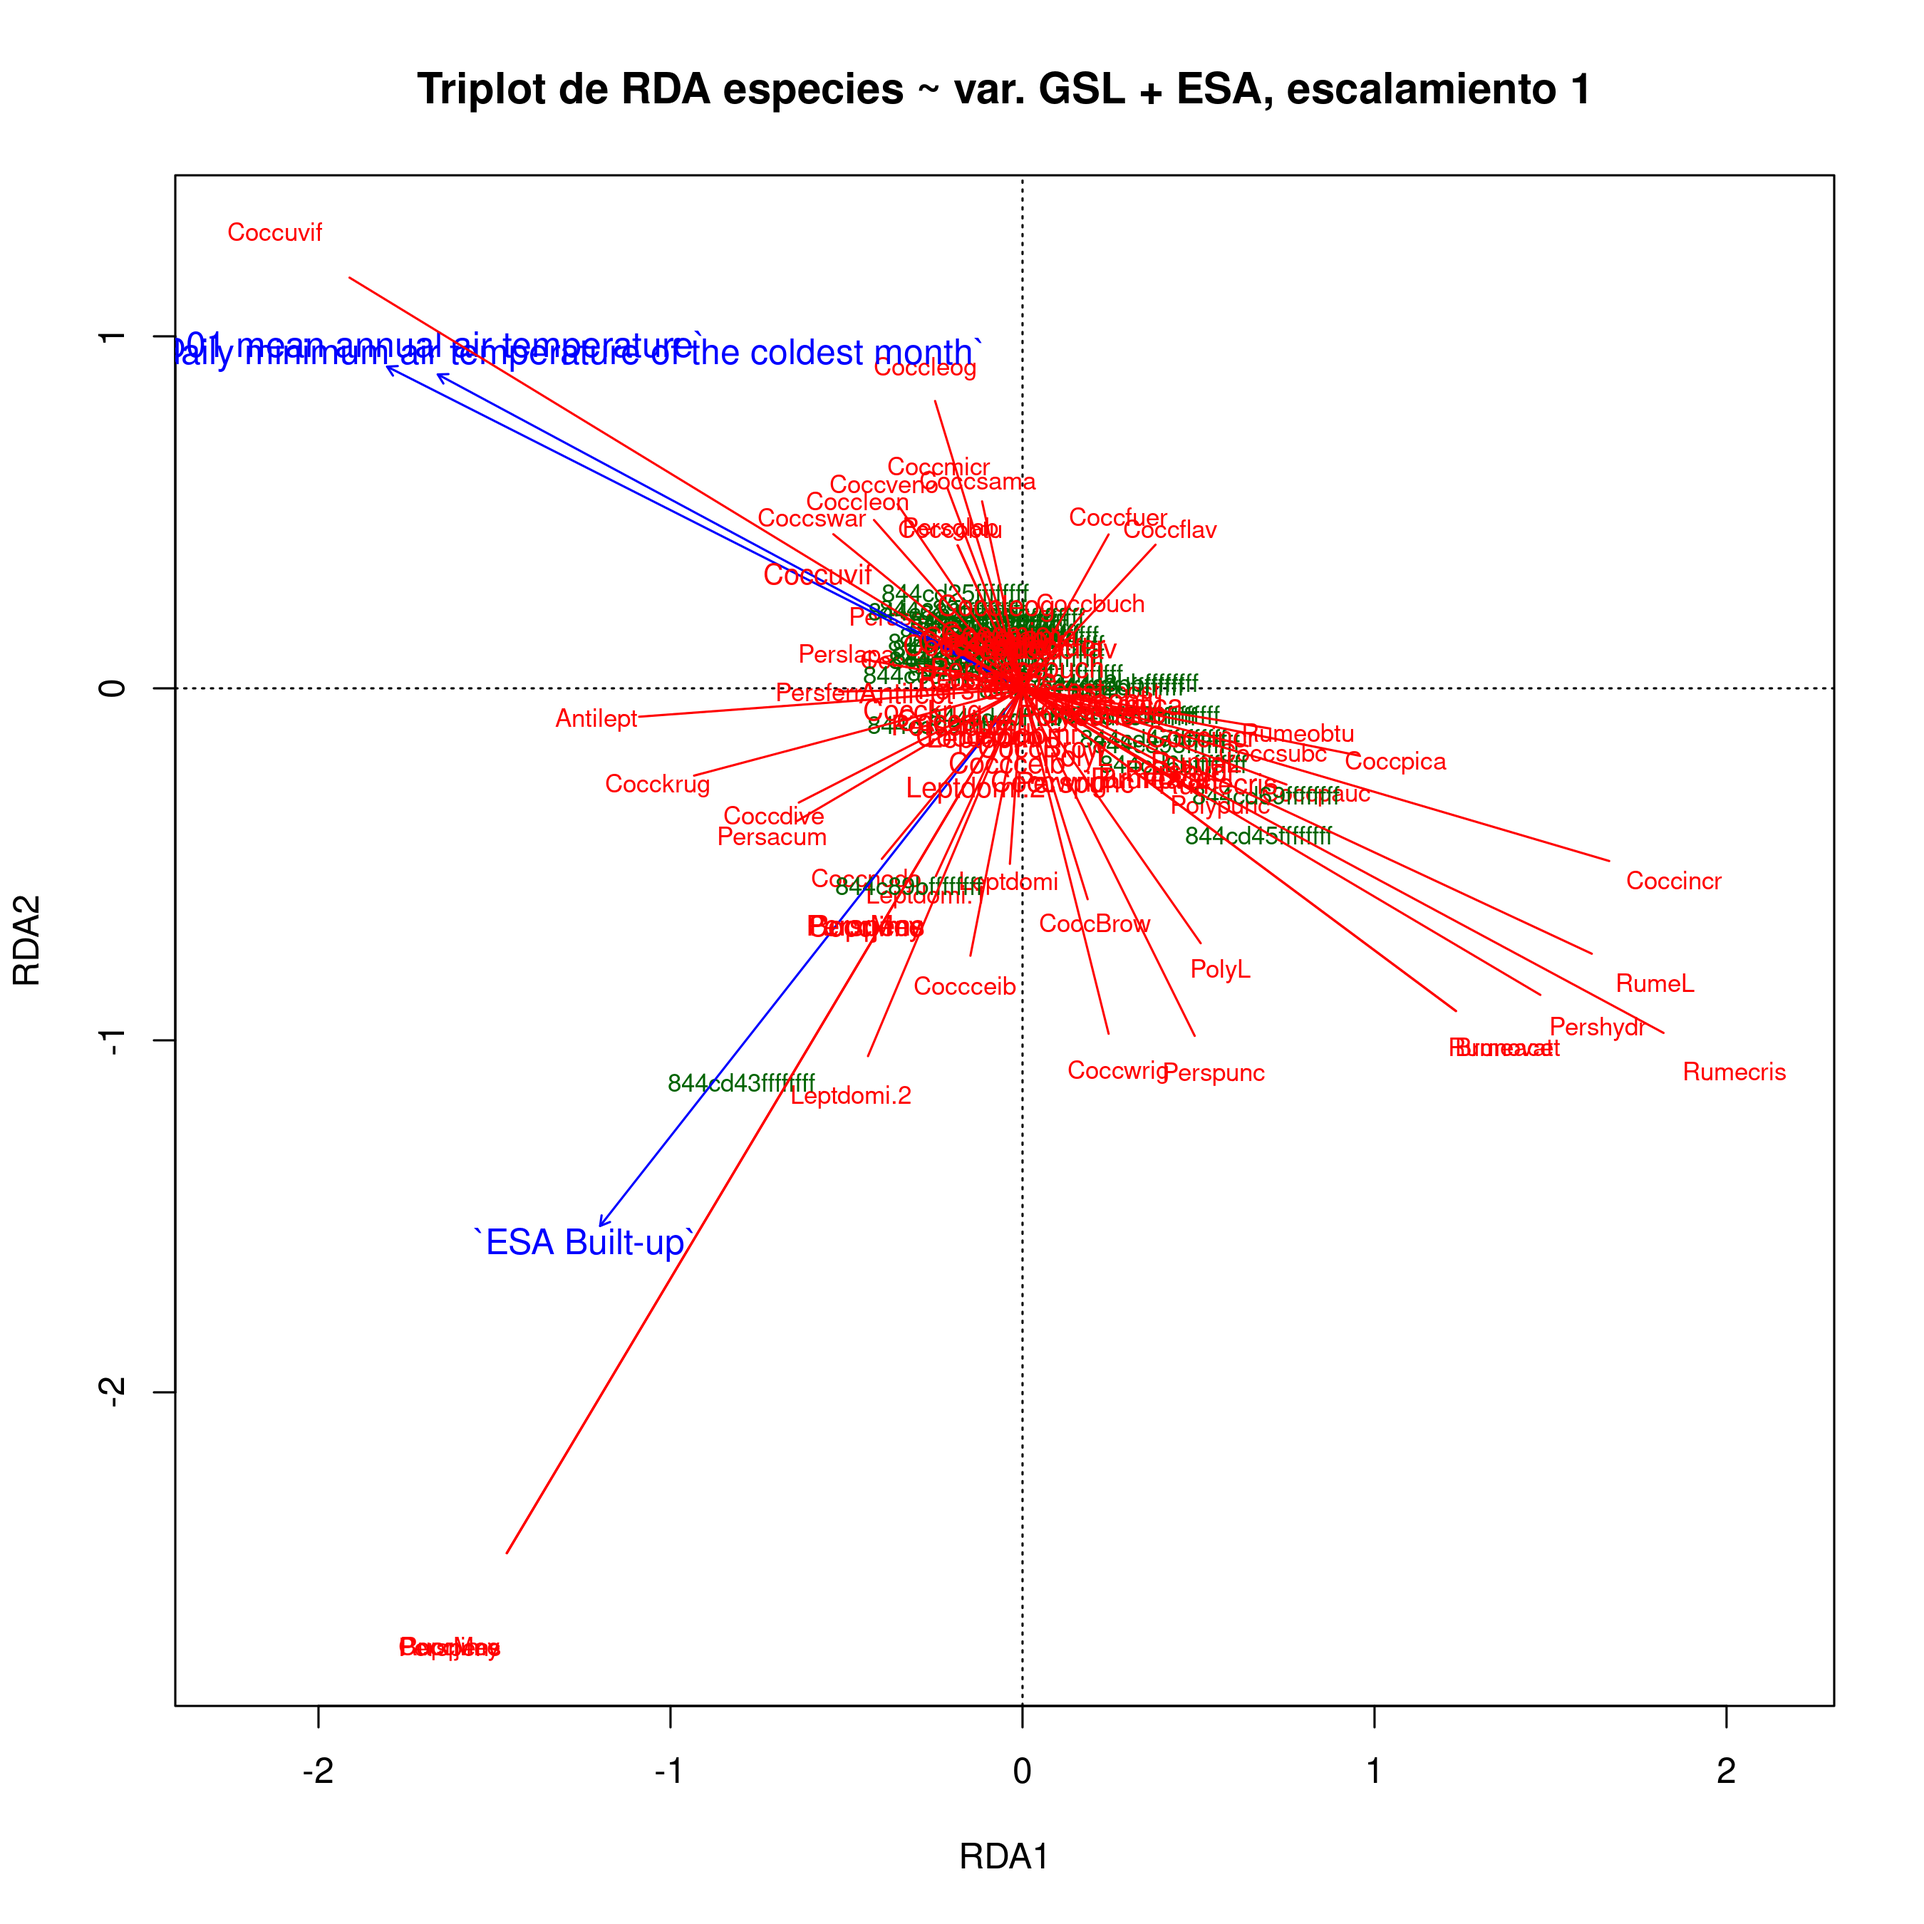
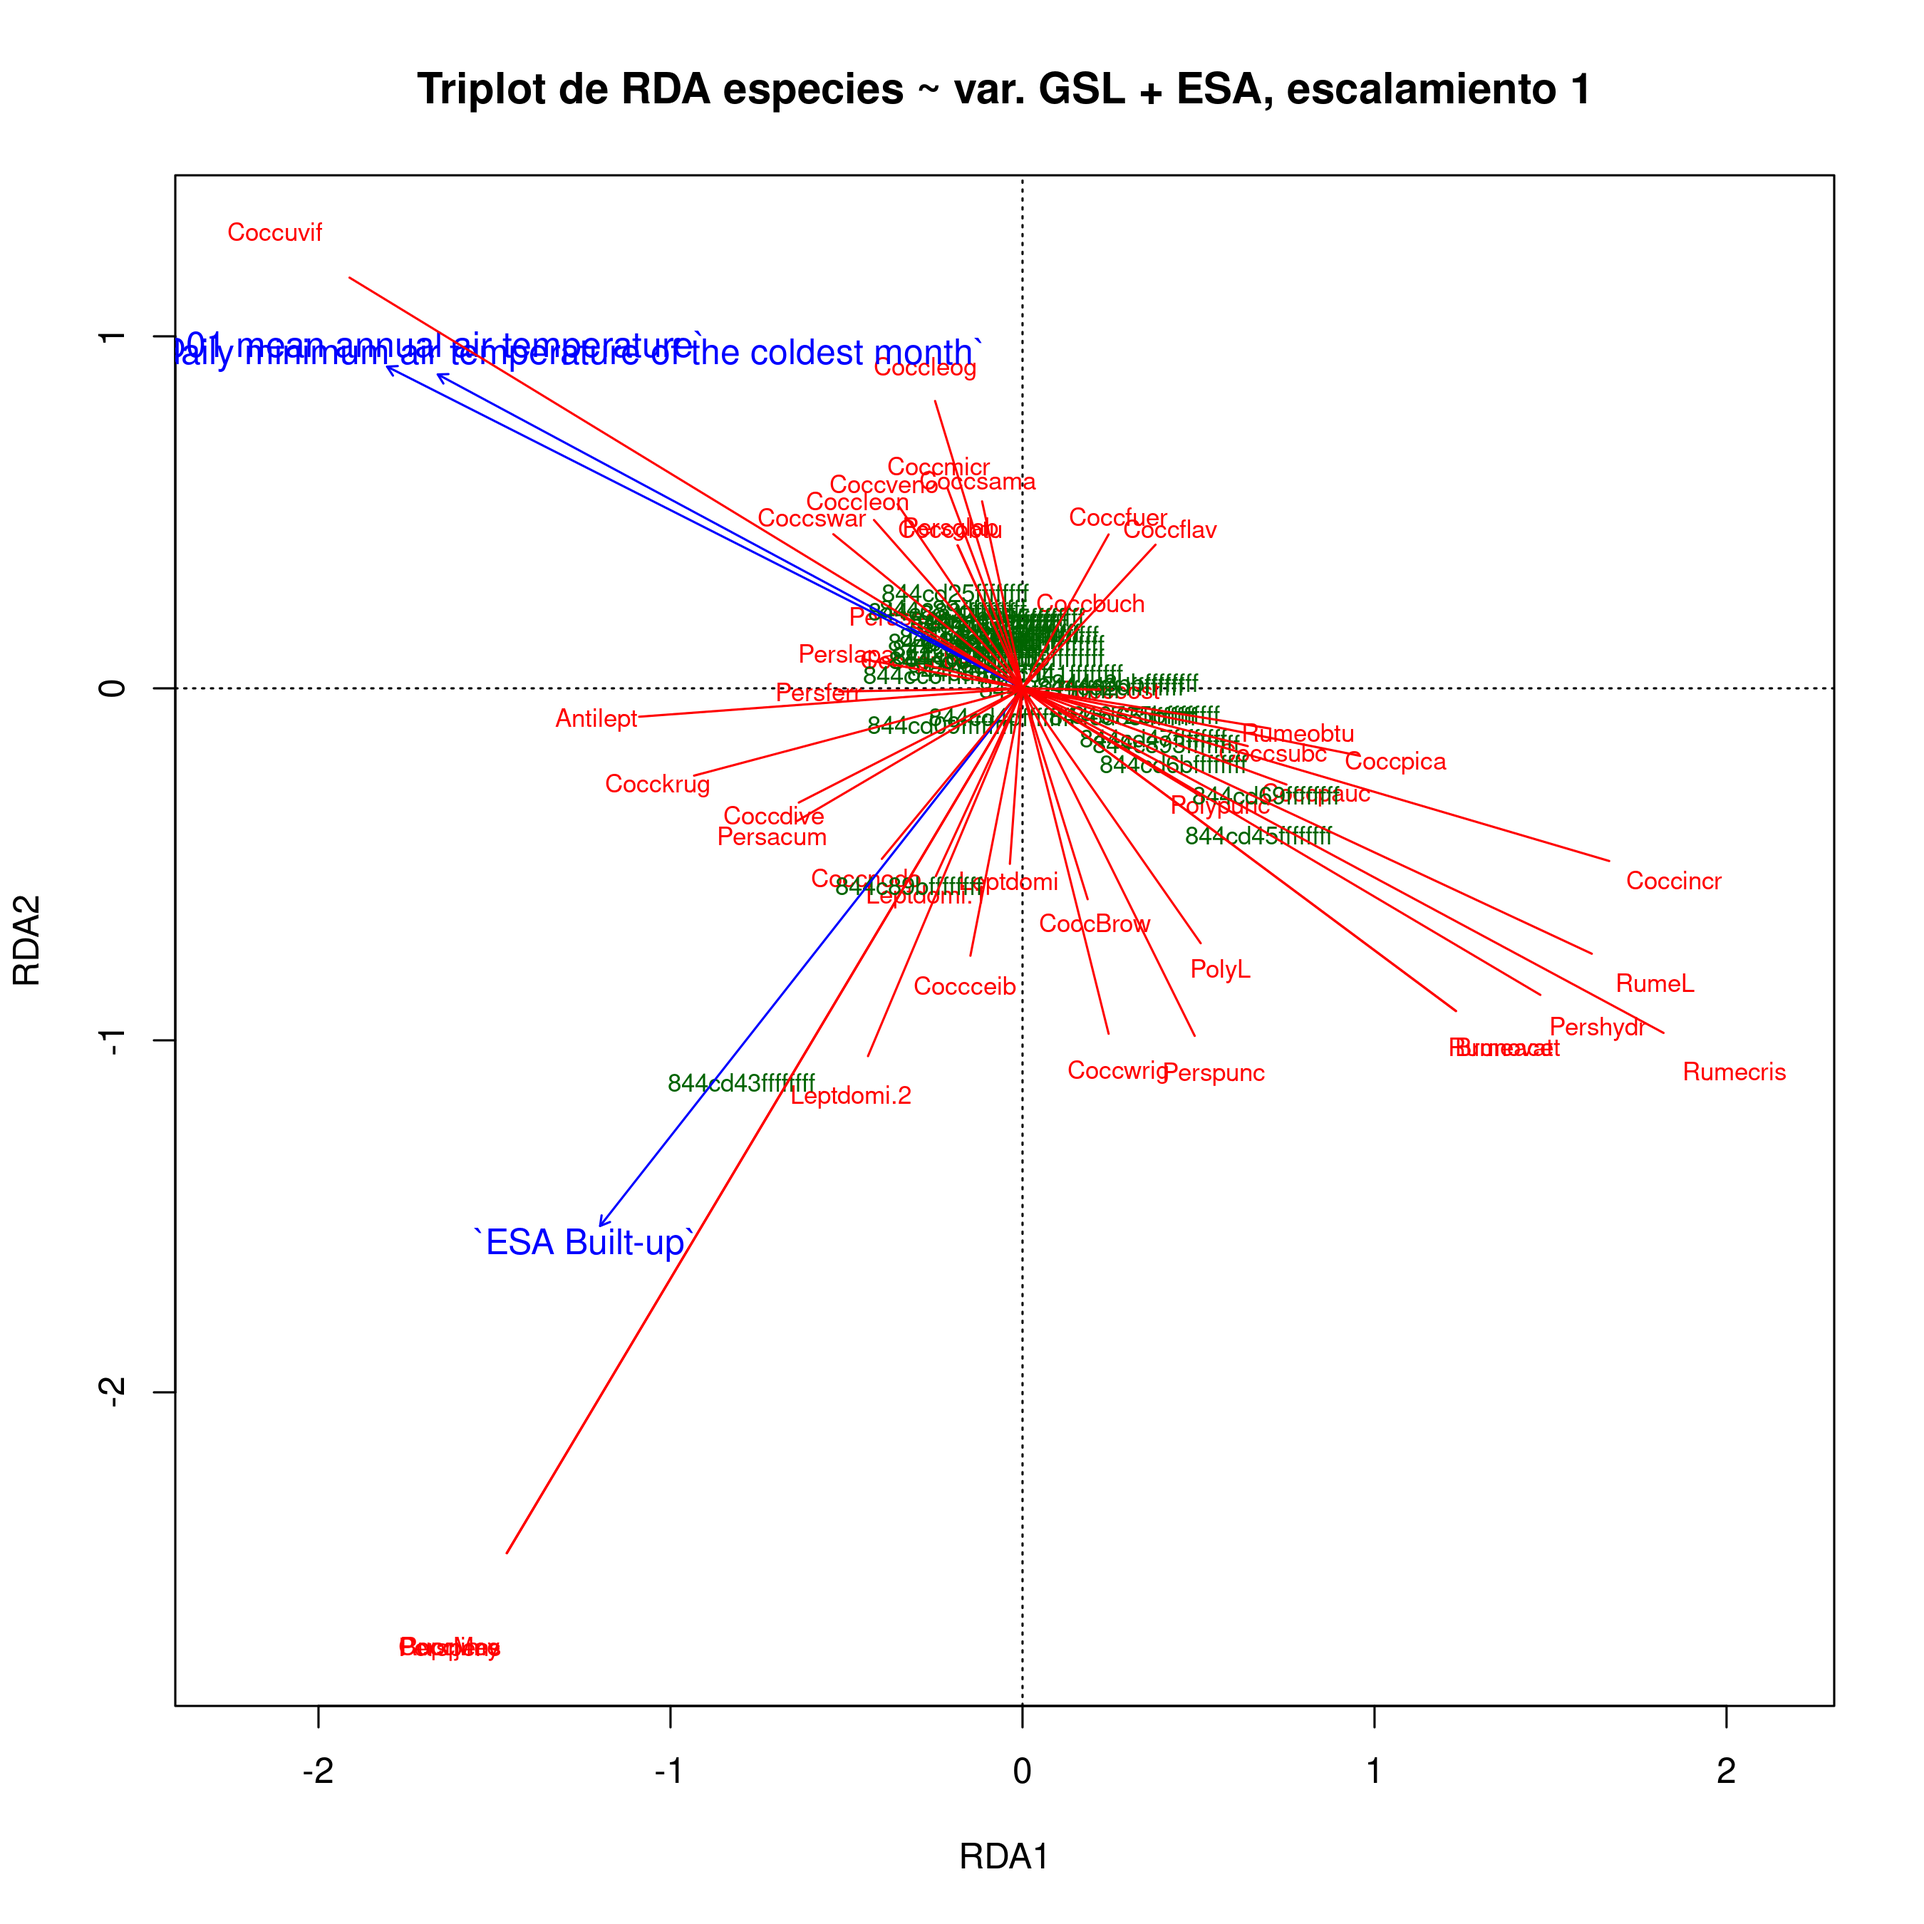
UPDATE follow-up manuscript assignment, results section, all maps correctly generated, results assignment knit-ready

Changed region(s): [[0.4356, 0.3111, 0.6533, 0.4356], [0.4044, 0.4667, 0.4667, 0.4978], [0.4044, 0.28, 0.4356, 0.3111]]

diff --git a/practicas/practica-99-tu-manuscrito-3-resultados.md b/practicas/practica-99-tu-manuscrito-3-resultados.md
@@ -130,7 +130,15 @@ por la ruta del directorio donde tengas almacenados tus datos y tus
 scripts.
 
 ``` r
-# setwd('practicas/')
+if(interactive()) {
+  tryCatch(
+    setwd(dirname(rstudioapi::getSourceEditorContext()$path)),
+    error = function(e) {
+      cat('Probablemente ya el directorio de trabajo está fijado correctamente',
+          'o quizá el directorio no existe. Este fue el error devuelto:\n')
+      e
+    })
+}
 ```
 
 Cargar paquetes.
@@ -4960,7 +4968,15 @@ por la ruta del directorio donde tengas almacenados tus datos y tus
 scripts.
 
 ``` r
-# setwd('practicas/')
+if(interactive()) {
+  tryCatch(
+    setwd(dirname(rstudioapi::getSourceEditorContext()$path)),
+    error = function(e) {
+      cat('Probablemente ya el directorio de trabajo está fijado correctamente',
+          'o quizá el directorio no existe. Este fue el error devuelto:\n')
+      e
+    })
+}
 ```
 
 Cargar paquetes.
@@ -6630,7 +6646,7 @@ mi_fam_t_rda_sc1 <- scores(mi_fam_t_rda,
          scaling = escalado,
          display = "sp"
   )
-text(mi_fam_t_rda, "species", col="red", cex=0.8, scaling="sp")
+# text(mi_fam_t_rda, "species", col="red", cex=0.8, scaling="sp")
 arrows(0, 0,
        mi_fam_t_rda_sc1[, 1] * 0.9,
        mi_fam_t_rda_sc1[, 2] * 0.9,
@@ -6659,7 +6675,15 @@ por la ruta del directorio donde tengas almacenados tus datos y tus
 scripts.
 
 ``` r
-# setwd('practicas/')
+if(interactive()) {
+  tryCatch(
+    setwd(dirname(rstudioapi::getSourceEditorContext()$path)),
+    error = function(e) {
+      cat('Probablemente ya el directorio de trabajo está fijado correctamente',
+          'o quizá el directorio no existe. Este fue el error devuelto:\n')
+      e
+    })
+}
 ```
 
 Cargar paquetes.
@@ -9394,7 +9418,15 @@ por la ruta del directorio donde tengas almacenados tus datos y tus
 scripts.
 
 ``` r
-# setwd('practicas/')
+if(interactive()) {
+  tryCatch(
+    setwd(dirname(rstudioapi::getSourceEditorContext()$path)),
+    error = function(e) {
+      cat('Probablemente ya el directorio de trabajo está fijado correctamente',
+          'o quizá el directorio no existe. Este fue el error devuelto:\n')
+      e
+    })
+}
 ```
 
 Cargar paquetes.
@@ -11560,8 +11592,6 @@ env_sf <- za_sf %>%
   rownames_to_column('hex_id') %>% 
   left_join(riq_hex, by = 'hex_id')
 env_sp <- env_sf %>% as_Spatial
-centroides <- env_sf %>% st_centroid
-env_xy <- centroides %>% st_coordinates %>% as.data.frame
 (vecindad <- env_sp %>% poly2nb)
 ```
 
@@ -11570,6 +11600,21 @@ env_xy <- centroides %>% st_coordinates %>% as.data.frame
     ## Number of nonzero links: 1820 
     ## Percentage nonzero weights: 1.621742 
     ## Average number of links: 5.432836
+
+``` r
+islas <- which(card(vecindad)==0)
+if(length(islas) > 0) {
+  cat('\nHay islas, en concreto, la(s) fila(s)', islas, 'de env_sf\n')
+  env_sf <- env_sf[-islas, ]
+  env_sp <- env_sf %>% as_Spatial
+  (vecindad <- env_sp %>% poly2nb)
+  islas <- which(card(vecindad)==0)
+  cat('\nIsla(s) eliminada(s)\n')
+}
+if(length(islas) == 0) cat('No hay isla(s). Proseguir con el script')
+```
+
+    ## No hay isla(s). Proseguir con el script
 
 ``` r
 (pesos_b <- nb2listw(vecindad, style = 'B'))
@@ -11589,6 +11634,8 @@ env_xy <- centroides %>% st_coordinates %>% as.data.frame
 
 ``` r
 plot(env_sp)
+centroides <- env_sf %>% st_centroid
+env_xy <- centroides %>% st_coordinates %>% as.data.frame
 plot(vecindad, coords = env_xy, add =T , col = 'red')
 ```
 
@@ -12280,6 +12327,7 @@ print(auto_spp_hel, digits = 2, p.adj.method = 'holm')
 
 ``` r
 dim_panel <- rev(n2mfrow(ncol(mi_fam_t_all)))
+if(interactive()) dev.new()
 par(mfrow = dim_panel)
 suppressWarnings(invisible(lapply(auto_spp_hel, function(x) plot(x, main = x$var))))
 ```
@@ -14497,6 +14545,7 @@ prefijos_disponibles <- c('ESA', 'CGL', 'GSL', 'GHH', 'WCL', 'CH-BIO', 'G90', 'G
 suppressWarnings(invisible(lapply(prefijos_disponibles, 
        function(x) {
          dim_panel <- rev(n2mfrow(ncol(env_num %>% select(matches(paste0('^', x))))))
+         if(interactive()) dev.new()
          par(mfrow = dim_panel)
          suppressWarnings(invisible(lapply(
            auto_amb[grep(paste0('^', x), names(auto_amb), value=T)],
@@ -14542,9 +14591,10 @@ env_sf_num %>% tibble
 
 ``` r
 lisamaps_amb <- sapply(
-  grep('geom', names(env_sf_num %>% select(matches('^ESA'))), invert = T, value = T),
+  grep('geom', names(env_sf_num), invert = T, value = T),
   function(x) {
-    m <- lisamap(
+    tryCatch(
+      {m <- lisamap(
       objesp = env_sf_num[x],
       var = x,
       pesos = pesos_b,
@@ -14554,21 +14604,32 @@ lisamaps_amb <- sapply(
       tamanotitulo = 10,
       fuentedatos = '',
       titulomapa = paste0('Clusters LISA de "', x, '"'))
-    return(m$grafico)}, simplify = F)
-lisamaps_amb$leyenda <- gtable_filter(ggplot_gtable(ggplot_build(lisamaps_amb[[1]] + theme(legend.position="bottom"))), "guide-box")
-grid.arrange(do.call('arrangeGrob', c(lisamaps_amb[1:length(lisamaps_amb)], nrow = 3)),
-             lisamaps_amb$leyenda, heights=c(1.1, 0.1), nrow = 2)
+    return(m$grafico)}, error = function(e) e)
+    }, simplify = F)
+lisamaps_amb_rango <- seq_along(lisamaps_amb)
+lisamaps_amb_cortes <- unique(c(
+  min(lisamaps_amb_rango),
+  (lisamaps_amb_rango)[which(lisamaps_amb_rango%%8==0)],
+  max(lisamaps_amb_rango)))
+lisamaps_amb_intervalos <- cut(lisamaps_amb_rango, lisamaps_amb_cortes, include.lowest = T)
+lisamaps_amb_df <- data.frame(lisamaps_amb_rango, lisamaps_amb_intervalos)
+lisamaps_amb$leyenda <- gtable_filter(ggplot_gtable(ggplot_build(lisamaps_amb[[1]] + theme(legend.position = "bottom"))), "guide-box")
+suppressWarnings(invisible(sapply(levels(lisamaps_amb_df[, 'lisamaps_amb_intervalos']),
+       function(x) {
+         if(interactive()) dev.new()
+         grid.arrange(
+           do.call(
+             'arrangeGrob',
+             c(lisamaps_amb[
+               lisamaps_amb_df[
+                 lisamaps_amb_df$lisamaps_amb_intervalos==x, 'lisamaps_amb_rango', drop=T]
+               ], nrow = 3)),
+           lisamaps_amb$leyenda,
+           heights=c(1.1, 0.1), nrow = 2)
+       })))
 ```
 
-![](practica-99-tu-manuscrito-3-resultados_files/figure-gfm/unnamed-chunk-54-1.png)<!-- -->
-
-¡¡¡IMPORTANTE!!! Sólo coloqué los mapas LISA de las variables con el
-prefijo `ESA`. Te toca hacer los demás mapas a ti, pues recuerda que hay
-una batería de variables adicionales, concretamente, todas estas . Para
-hacer los restantes mapas, ejecuta el mismo bloque anterior,
-sustituyendo `ESA` por la que corresponda, en la línea de
-`...select(matches('^OTROPREFIJO'))...` por ejemplo,
-`...select(matches('^CGL'))...`.
+![](practica-99-tu-manuscrito-3-resultados_files/figure-gfm/unnamed-chunk-54-1.png)<!-- -->![](practica-99-tu-manuscrito-3-resultados_files/figure-gfm/unnamed-chunk-54-2.png)<!-- -->![](practica-99-tu-manuscrito-3-resultados_files/figure-gfm/unnamed-chunk-54-3.png)<!-- -->![](practica-99-tu-manuscrito-3-resultados_files/figure-gfm/unnamed-chunk-54-4.png)<!-- -->![](practica-99-tu-manuscrito-3-resultados_files/figure-gfm/unnamed-chunk-54-5.png)<!-- -->![](practica-99-tu-manuscrito-3-resultados_files/figure-gfm/unnamed-chunk-54-6.png)<!-- -->![](practica-99-tu-manuscrito-3-resultados_files/figure-gfm/unnamed-chunk-54-7.png)<!-- -->![](practica-99-tu-manuscrito-3-resultados_files/figure-gfm/unnamed-chunk-54-8.png)<!-- -->![](practica-99-tu-manuscrito-3-resultados_files/figure-gfm/unnamed-chunk-54-9.png)<!-- -->![](practica-99-tu-manuscrito-3-resultados_files/figure-gfm/unnamed-chunk-54-10.png)<!-- -->![](practica-99-tu-manuscrito-3-resultados_files/figure-gfm/unnamed-chunk-54-11.png)<!-- -->![](practica-99-tu-manuscrito-3-resultados_files/figure-gfm/unnamed-chunk-54-12.png)<!-- -->![](practica-99-tu-manuscrito-3-resultados_files/figure-gfm/unnamed-chunk-54-13.png)<!-- -->![](practica-99-tu-manuscrito-3-resultados_files/figure-gfm/unnamed-chunk-54-14.png)<!-- -->![](practica-99-tu-manuscrito-3-resultados_files/figure-gfm/unnamed-chunk-54-15.png)<!-- -->![](practica-99-tu-manuscrito-3-resultados_files/figure-gfm/unnamed-chunk-54-16.png)<!-- -->![](practica-99-tu-manuscrito-3-resultados_files/figure-gfm/unnamed-chunk-54-17.png)<!-- -->![](practica-99-tu-manuscrito-3-resultados_files/figure-gfm/unnamed-chunk-54-18.png)<!-- -->
 
 Finalmente, haré lo propio con los datos de la matriz de comunidad, para
 calcular la autocorrelación de los datos de incidencia a partir de la
@@ -14597,24 +14658,29 @@ lisamaps_mifam <- sapply(
     # dev.new();print(m$grafico)
     return(m$grafico)}, error = function(e) e)
     }, simplify = F)
-lisamaps_mifam$leyenda <- gtable_filter(ggplot_gtable(ggplot_build(lisamaps_mifam[[1]] + theme(legend.position="bottom"))), "guide-box")
-grid.arrange(do.call('arrangeGrob', c(lisamaps_mifam[1:8], nrow = 3)), lisamaps_mifam$leyenda, heights=c(1.1, 0.1), nrow = 2)
+lisamaps_mifam_rango <- seq_along(lisamaps_mifam)
+lisamaps_mifam_cortes <- unique(c(
+  min(lisamaps_mifam_rango),
+  (lisamaps_mifam_rango)[which(lisamaps_mifam_rango%%8==0)],
+  max(lisamaps_mifam_rango)))
+lisamaps_mifam_intervalos <- cut(lisamaps_mifam_rango, lisamaps_mifam_cortes, include.lowest = T)
+lisamaps_mifam_df <- data.frame(lisamaps_mifam_rango, lisamaps_mifam_intervalos)
+lisamaps_mifam$leyenda <- gtable_filter(ggplot_gtable(ggplot_build(lisamaps_mifam[[1]] + theme(legend.position = "bottom"))), "guide-box")
+suppressWarnings(invisible(sapply(levels(lisamaps_mifam_df[, 'lisamaps_mifam_intervalos']),
+       function(x) {
+         if(interactive()) dev.new()
+         grid.arrange(
+           do.call(
+             'arrangeGrob',
+             c(lisamaps_mifam[
+               lisamaps_mifam_df[
+                 lisamaps_mifam_df$lisamaps_mifam_intervalos==x, 'lisamaps_mifam_rango', drop=T]
+               ], nrow = 3)),
+           lisamaps_mifam$leyenda,
+           heights=c(1.1, 0.1), nrow = 2)
+       })))
 ```
 
-![](practica-99-tu-manuscrito-3-resultados_files/figure-gfm/unnamed-chunk-55-1.png)<!-- -->
-
-¡¡¡IMPORTANTE!!! Fíjate en la última línea de código, donde pone
-`...c(lisamaps_mifam[1:8],...`. El 1:8 significa “representa desde la
-especie que ocupa la columna 1 hasta la que ocupa la columna 8. Sin
-embargo, hay más mapas que debo representar, en concreto 44. Por lo
-tanto, dependiendo del número de especies que tenga mi matriz de
-comunidad (lo puedes saber ejecutando
-`length(grep('leyenda', names(lisamaps_mifam), invert=T))` directamente
-en la consola), tendrás que repetir el código del bloque anterior varias
-veces, de 8 en 8, o si quieres de 12 en 12, o como te salga mejor; por
-ejemplo, en mi caso, yo debería repetirlo con
-`...c(lisamaps_mifam[9:16],...`, luego con
-`...c(lisamaps_mifam[17:24],...`, hasta llegar al número de especies
-disponibles.
+![](practica-99-tu-manuscrito-3-resultados_files/figure-gfm/unnamed-chunk-55-1.png)<!-- -->![](practica-99-tu-manuscrito-3-resultados_files/figure-gfm/unnamed-chunk-55-2.png)<!-- -->![](practica-99-tu-manuscrito-3-resultados_files/figure-gfm/unnamed-chunk-55-3.png)<!-- -->![](practica-99-tu-manuscrito-3-resultados_files/figure-gfm/unnamed-chunk-55-4.png)<!-- -->![](practica-99-tu-manuscrito-3-resultados_files/figure-gfm/unnamed-chunk-55-5.png)<!-- -->![](practica-99-tu-manuscrito-3-resultados_files/figure-gfm/unnamed-chunk-55-6.png)<!-- -->
 
 # Referencias
